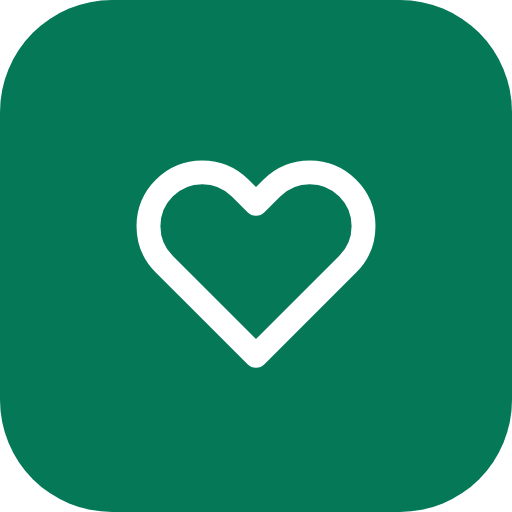
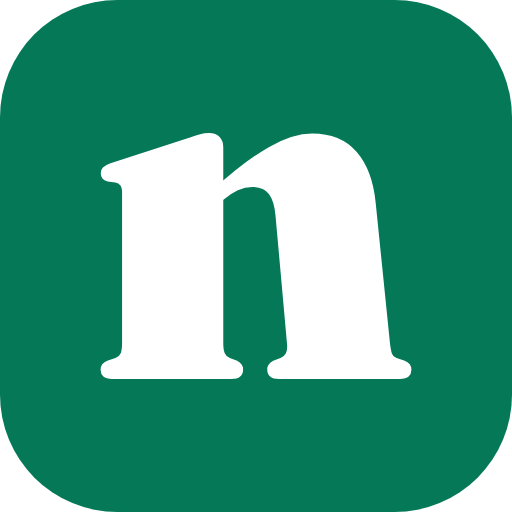
feat(brand): a mark for Ninho, drawn from the display face (#79)
* fix(pwa): the installed app still called itself Meu Neném

The rename in #78 changed twelve strings and missed two, both in
`public/manifest.webmanifest`: `name` and `short_name`. They are what
Android and iOS print under the icon once somebody installs the app, so
the one place the old name would have survived is the home screen — the
most visible surface there is.

The miss has a cause worth naming: the search that drove that change
covered `src/`, `index.html`, `README.md` and `e2e/`, and `public/` was
not in it. Static assets carry user-facing copy too.

* feat(brand): a mark for Ninho, drawn from the display face

The logo was a heart — generic on its own, and since medications took a
slot in the bottom bar, also the exact silhouette of the "Remédios" tab.
The brand and one of six tabs were the same shape.

It is now the lowercase "n" of Fraunces, the serif the app already uses
for display type. Four rounds of exploration got here, and the three
discarded ones are the reason this one is a letter:

  · a nest bowl with one egg reads as a person meditating;
  · with two eggs it reads as a smiling face — two dots over an upward
    curve is the canonical smiley, and no amount of adjusting the curve
    escapes it;
  · the nest as a ring with the egg inside reads as an eye, which is the
    last thing a health record for a child should look like;
  · seen from above, as woven circles, it reads as a wifi symbol — and
    means the opposite of what the app does.
[…]

diff --git a/src/shared/icons/logo-icon.tsx b/src/shared/icons/logo-icon.tsx
@@ -1,9 +1,28 @@
 import { IconBase, type IconProps } from './icon-base'
 
+/**
+ * A marca do Ninho: o "n" minúsculo da Fraunces, a serifa que o app já usa como fonte de display.
+ *
+ * **Por que uma letra e não um ninho desenhado.** Três rodadas de pictograma foram testadas e as
+ * três colidiram com um símbolo mais forte: tigela com um ovo em cima vira uma pessoa; com dois
+ * ovos vira um rosto sorridente; o ninho como aro com o ovo dentro vira um olho; visto de cima
+ * vira wifi. Não é falta de desenho — é que "curva com pontos" é o vocabulário de rostos, e num
+ * glifo monocromático de 24px não há como escapar dele. Uma letra não colide com nada.
+ *
+ * **Por que o "n" minúsculo e não o "N".** O "n" da Fraunces já é um arco apoiado em duas hastes:
+ * a forma de abrigo, sem precisar desenhar abrigo nenhum.
+ *
+ * **Por que um `path` e não texto.** Um monograma escrito como `<text>` só existe depois que a
+ * fonte carrega, e este repositório já passou meses renderizando em `system-ui` porque o nome da
+ * família tinha um espaço de diferença (PR #73). Marca que às vezes não aparece não é marca. O
+ * contorno abaixo é o glifo real, extraído da própria `@fontsource-variable/fraunces` instanciada
+ * em `wght 900, opsz 72, SOFT 0, WONK 0` e encaixado na caixa de 24×24 com margem de 2.6 — não é
+ * um desenho parecido, é a mesma curva.
+ */
 export function LogoIcon(props: IconProps) {
   return (
-    <IconBase {...props}>
-      <path d="M4.318 6.318a4.5 4.5 0 000 6.364L12 20.364l7.682-7.682a4.5 4.5 0 00-6.364-6.364L12 7.636l-1.318-1.318a4.5 4.5 0 00-6.364 0z" />
+    <IconBase fill="currentColor" stroke="none" {...props}>
+      <path d="M10.02 5.41V17.24Q10.02 17.68 10.11 17.88Q10.2 18.09 10.42 18.17L10.86 18.33Q11.22 18.51 11.22 18.85Q11.22 19.44 10.51 19.44H3.3Q2.94 19.44 2.77 19.29Q2.6 19.14 2.6 18.88Q2.6 18.69 2.7 18.55Q2.8 18.41 3.04 18.32L3.5 18.17Q3.72 18.09 3.81 17.89Q3.9 17.68 3.9 17.24V8.2Q3.9 7.88 3.8 7.74Q3.7 7.6 3.49 7.56L3.03 7.5Q2.8 7.44 2.71 7.32Q2.61 7.19 2.61 7Q2.61 6.77 2.74 6.64Q2.87 6.51 3.2 6.39L7.77 4.91Q8.28 4.73 8.57 4.65Q8.87 4.56 9.16 4.56Q9.58 4.56 9.8 4.8Q10.02 5.04 10.02 5.41ZM9.5 9.07 8.91 8.43 9.44 7.95Q11.37 6.2 12.8 5.4Q14.22 4.59 15.4 4.59Q17.11 4.59 18.08 5.69Q19.05 6.8 19.24 8.79L20.1 17.24Q20.15 17.68 20.22 17.89Q20.28 18.09 20.5 18.17L20.96 18.32Q21.2 18.41 21.3 18.55Q21.4 18.69 21.4 18.88Q21.4 19.14 21.23 19.29Q21.07 19.44 20.7 19.44H13.39Q12.68 19.44 12.68 18.85Q12.68 18.51 13.04 18.33L13.48 18.17Q13.7 18.09 13.81 17.88Q13.92 17.68 13.87 17.24L13.18 9.56Q13.1 8.67 12.78 8.25Q12.46 7.82 11.78 7.82Q11.34 7.82 10.9 8.02Q10.47 8.22 10.07 8.57Z" />
     </IconBase>
   )
 }
